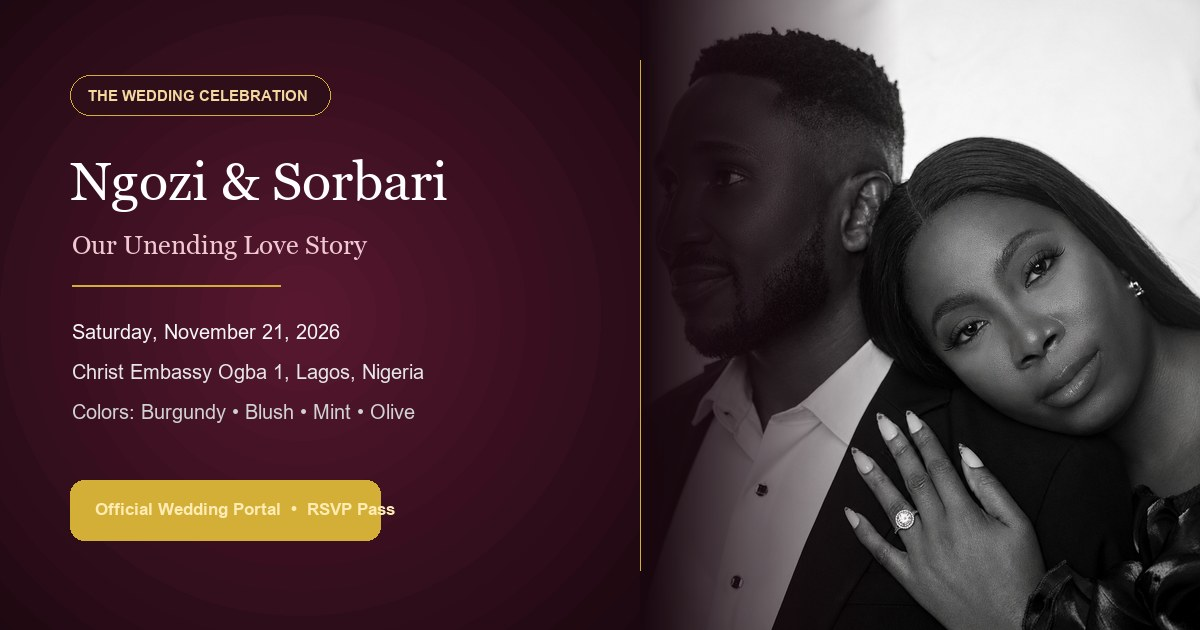
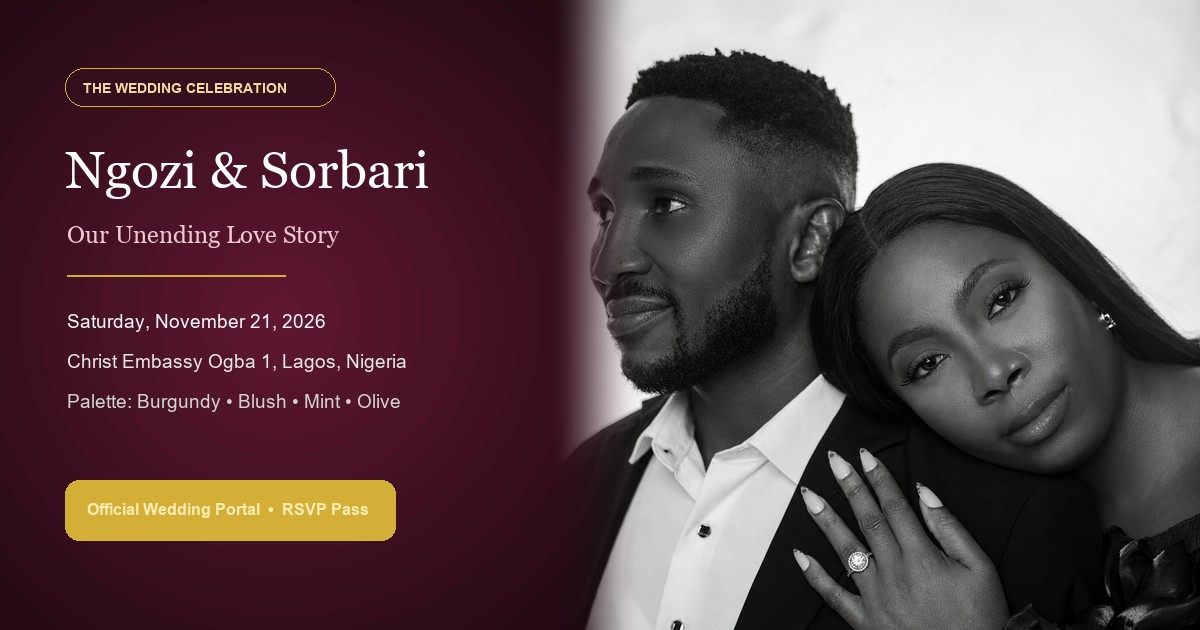
update

diff --git a/app/layout.tsx b/app/layout.tsx
@@ -90,21 +90,7 @@ export const metadata: Metadata = {
         width: 1200,
         height: 630,
         alt: 'Ngozi & Sorbari Wedding Celebration — November 21, 2026',
-        type: 'image/png',
-      },
-      {
-        url: '/couple/IMG_6500.jpg',
-        width: 1121,
-        height: 1403,
-        alt: 'Ngozi & Sorbari Wedding Celebration — November 21, 2026',
         type: 'image/jpeg',
-      },
-      {
-        url: '/couple/IMG_6500.PNG',
-        width: 1121,
-        height: 1403,
-        alt: 'Ngozi & Sorbari Wedding Celebration — November 21, 2026',
-        type: 'image/png',
       },
     ],
   },
@@ -113,7 +99,7 @@ export const metadata: Metadata = {
     title: 'Ngozi & Sorbari — Our Wedding Celebration | November 21, 2026',
     description:
       'Join Ngozi and Sorbari for their wedding celebration on Saturday, November 21, 2026 at Christ Embassy Ogba 1, Lagos, Nigeria.',
-    images: ['/IMG_6500.jpeg', '/couple/IMG_6500.jpg'],
+    images: ['/IMG_6500.jpeg'],
     creator: '@ensorb_wedding',
   },
   robots: {

diff --git a/wedding promotional/scripts/generate_og_image.py b/wedding promotional/scripts/generate_og_image.py
@@ -3,87 +3,84 @@ from PIL import Image, ImageDraw, ImageFont
 
 base_dir = r'c:\Users\dell\Desktop\Sylver\CODE PROJECTS\Nextjs Projects\ensorb'
 img_path = os.path.join(base_dir, 'public', 'couple', 'IMG_6500.PNG')
-out_og_path = os.path.join(base_dir, 'public', 'IMG_6500.jpeg')
+out_og_jpeg = os.path.join(base_dir, 'public', 'couple/IMG_6500.jpeg')
+out_og_jpg = os.path.join(base_dir, 'public', 'og-image.jpg')
+out_og_png = os.path.join(base_dir, 'public', 'og-image.png')
 out_direct_path = os.path.join(base_dir, 'public', 'couple', 'IMG_6500-preview.jpg')
 
 src = Image.open(img_path).convert('RGB')
-
-# 1. Direct optimized version of IMG_6500 (under 200KB for WhatsApp)
 w, h = src.size
+
+# 1. Direct optimized square/portrait version of IMG_6500 (under 200KB for direct links)
 scale = 1200 / max(w, h)
 direct_resized = src.resize((int(w * scale), int(h * scale)), Image.Resampling.LANCZOS)
 direct_resized.save(out_direct_path, 'JPEG', quality=85, optimize=True)
 print(f"Direct preview created: {os.path.getsize(out_direct_path):,} bytes")
 
-# 2. Gold standard 1200x630 OpenGraph Banner
+# 2. Perfect 1200x630 OpenGraph & Twitter Large Preview Banner
 OG_W, OG_H = 1200, 630
-canvas = Image.new('RGB', (OG_W, OG_H), (24, 7, 14)) # Dark rich burgundy / obsidian
+canvas = Image.new('RGB', (OG_W, OG_H), (28, 8, 16)) # Deep royal burgundy
 
-# Background luxury radial gradient
+# Background luxury radial gradient for left text area
 draw = ImageDraw.Draw(canvas)
-center_x, center_y = 300, 315
-for r in range(500, 0, -25):
-    alpha = int(45 * (1 - r / 500))
-    color = (24 + int(alpha * 1.5), 7 + int(alpha * 0.4), 14 + int(alpha * 0.8))
+center_x, center_y = 280, 315
+for r in range(480, 0, -20):
+    alpha = int(40 * (1 - r / 480))
+    color = (28 + int(alpha * 1.8), 8 + int(alpha * 0.4), 16 + int(alpha * 0.9))
     draw.ellipse([center_x - r, center_y - r, center_x + r, center_y + r], fill=color)
 
-# Crop & place couple photo on the right half
-crop_top = 80
-crop_bottom = 1250
-crop_h = crop_bottom - crop_top
-crop_w = int(crop_h * (560 / 630))
-crop_left = (src.width - crop_w) // 2
-couple_crop = src.crop((crop_left, crop_top, crop_left + crop_w, crop_bottom))
-couple_crop = couple_crop.resize((560, 630), Image.Resampling.LANCZOS)
+# Crop & size couple photo to preserve both Sorbari, Ngozi, and the engagement ring
+target_photo_w = 650
+target_photo_h = 630
+crop_top = 45
+crop_bottom = 1166
+couple_crop = src.crop((0, crop_top, 1121, crop_bottom))
+couple_crop = couple_crop.resize((target_photo_w, target_photo_h), Image.Resampling.LANCZOS)
 
-# Paste on right
-canvas.paste(couple_crop, (640, 0))
+# Create a smooth Hermite cubic fade across the left 90px margin only (so Sorbari is 100% visible and unshadowed)
+feather = Image.new('L', (target_photo_w, target_photo_h), 255)
+f_draw = ImageDraw.Draw(feather)
+for x in range(90):
+    t = x / 90.0
+    smooth_t = t * t * (3 - 2 * t)
+    val = int(255 * smooth_t)
+    f_draw.line([(x, 0), (x, target_photo_h)], fill=val)
 
-# Soft gradient fade between left text area and right photo
-gradient_overlay = Image.new('RGBA', (260, 630), (0, 0, 0, 0))
-draw_grad = ImageDraw.Draw(gradient_overlay)
-for x in range(260):
-    a = int(255 * (1 - (x / 260)**1.2))
-    draw_grad.line([(x, 0), (x, 630)], fill=(24, 7, 14, a))
-canvas.paste(gradient_overlay, (640, 0), gradient_overlay)
-
-# Thin gold luxury divider
-draw.line([(640, 60), (640, 570)], fill=(212, 175, 55, 90), width=1)
+canvas.paste(couple_crop, (OG_W - target_photo_w, 0), feather)
 
 # Typography on Left
 # Monogram / Date pill
-draw.rounded_rectangle([70, 75, 330, 115], radius=20, fill=(45, 14, 25), outline=(212, 175, 55, 120), width=1)
-font_sm = ImageFont.truetype('arialbd.ttf', 15)
-draw.text((88, 87), 'THE WEDDING CELEBRATION', font=font_sm, fill=(245, 215, 160))
+draw.rounded_rectangle([65, 68, 335, 106], radius=19, fill=(52, 16, 30), outline=(212, 175, 55, 140), width=1)
+font_sm = ImageFont.truetype('arialbd.ttf', 14)
+draw.text((83, 80), 'THE WEDDING CELEBRATION', font=font_sm, fill=(245, 215, 160))
 
 # Couple Names
-font_title = ImageFont.truetype('georgia.ttf', 54)
-draw.text((70, 150), 'Ngozi & Sorbari', font=font_title, fill=(255, 255, 255))
+font_title = ImageFont.truetype('georgia.ttf', 52)
+draw.text((65, 140), 'Ngozi & Sorbari', font=font_title, fill=(255, 255, 255))
 
 # Subtitle
-font_script = ImageFont.truetype('georgia.ttf', 26)
-draw.text((72, 230), 'Our Unending Love Story', font=font_script, fill=(240, 200, 210))
+font_script = ImageFont.truetype('georgia.ttf', 24)
+draw.text((67, 220), 'Our Unending Love Story', font=font_script, fill=(240, 200, 210))
 
 # Gold divider
-draw.line([(72, 285), (280, 285)], fill=(212, 175, 55, 180), width=2)
+draw.line([(67, 275), (285, 275)], fill=(212, 175, 55, 180), width=2)
 
 # Date & Location Details
-font_details = ImageFont.truetype('arial.ttf', 20)
-draw.text((72, 320), 'Saturday, November 21, 2026', font=font_details, fill=(245, 245, 245))
-draw.text((72, 360), 'Christ Embassy Ogba 1, Lagos, Nigeria', font=font_details, fill=(230, 230, 230))
-draw.text((72, 400), 'Colors: Burgundy • Blush • Mint • Olive', font=font_details, fill=(210, 210, 210))
+font_details = ImageFont.truetype('arial.ttf', 19)
+draw.text((67, 310), 'Saturday, November 21, 2026', font=font_details, fill=(245, 245, 245))
+draw.text((67, 350), 'Christ Embassy Ogba 1, Lagos, Nigeria', font=font_details, fill=(230, 230, 230))
+draw.text((67, 390), 'Palette: Burgundy • Blush • Mint • Olive', font=font_details, fill=(210, 210, 210))
 
 # Bottom badge
-draw.rounded_rectangle([70, 480, 380, 540], radius=14, fill=(212, 175, 55, 35), outline=(212, 175, 55, 180), width=1)
-font_badge = ImageFont.truetype('arialbd.ttf', 17)
-draw.text((95, 499), 'Official Wedding Portal  •  RSVP Pass', font=font_badge, fill=(255, 235, 180))
+draw.rounded_rectangle([65, 480, 395, 540], radius=14, fill=(212, 175, 55, 35), outline=(212, 175, 55, 180), width=1)
+font_badge = ImageFont.truetype('arialbd.ttf', 16)
+draw.text((87, 500), 'Official Wedding Portal  •  RSVP Pass', font=font_badge, fill=(255, 235, 180))
 
-canvas.save(out_og_path, 'JPEG', quality=88, optimize=True)
-print(f"1200x630 OpenGraph Banner created: {os.path.getsize(out_og_path):,} bytes")
+# Save the primary URL preview image: IMG_6500.jpeg
+canvas.save(out_og_jpeg, 'JPEG', quality=90, optimize=True)
+print(f"1200x630 URL preview image (IMG_6500.jpeg) created: {os.path.getsize(out_og_jpeg):,} bytes")
 
-# Also copy to app/opengraph-image.jpg and app/twitter-image.jpg for Next.js auto metadata
-app_og = os.path.join(base_dir, 'app', 'opengraph-image.jpg')
-app_tw = os.path.join(base_dir, 'app', 'twitter-image.jpg')
-canvas.save(app_og, 'JPEG', quality=88, optimize=True)
-canvas.save(app_tw, 'JPEG', quality=88, optimize=True)
-print("Saved app/opengraph-image.jpg and app/twitter-image.jpg successfully!")
+# Also save og-image.jpg and og-image.png for backwards compatibility
+canvas.save(out_og_jpg, 'JPEG', quality=90, optimize=True)
+canvas.save(out_og_png, 'PNG', optimize=True)
+print("Saved og-image.jpg and og-image.png successfully!")
